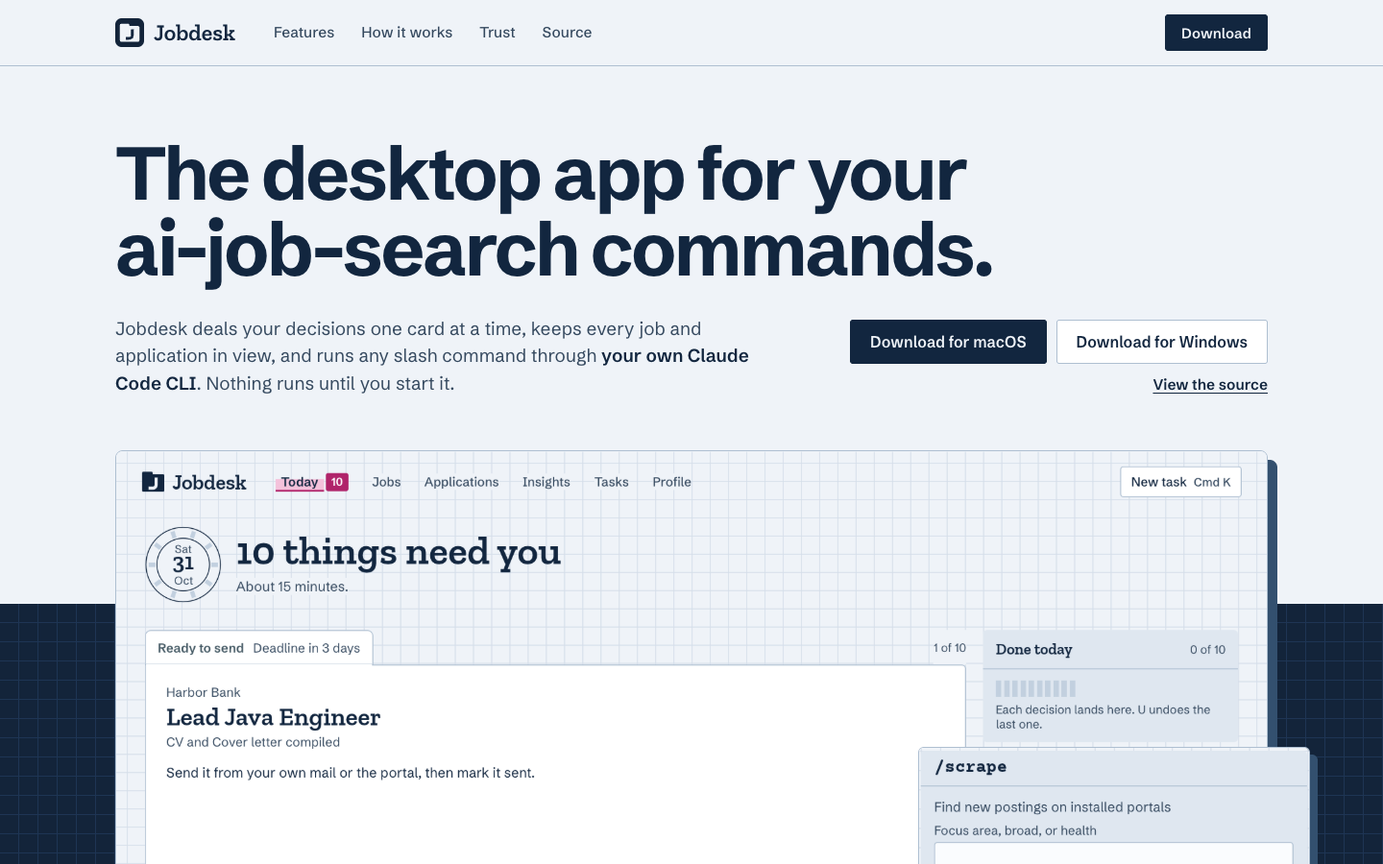
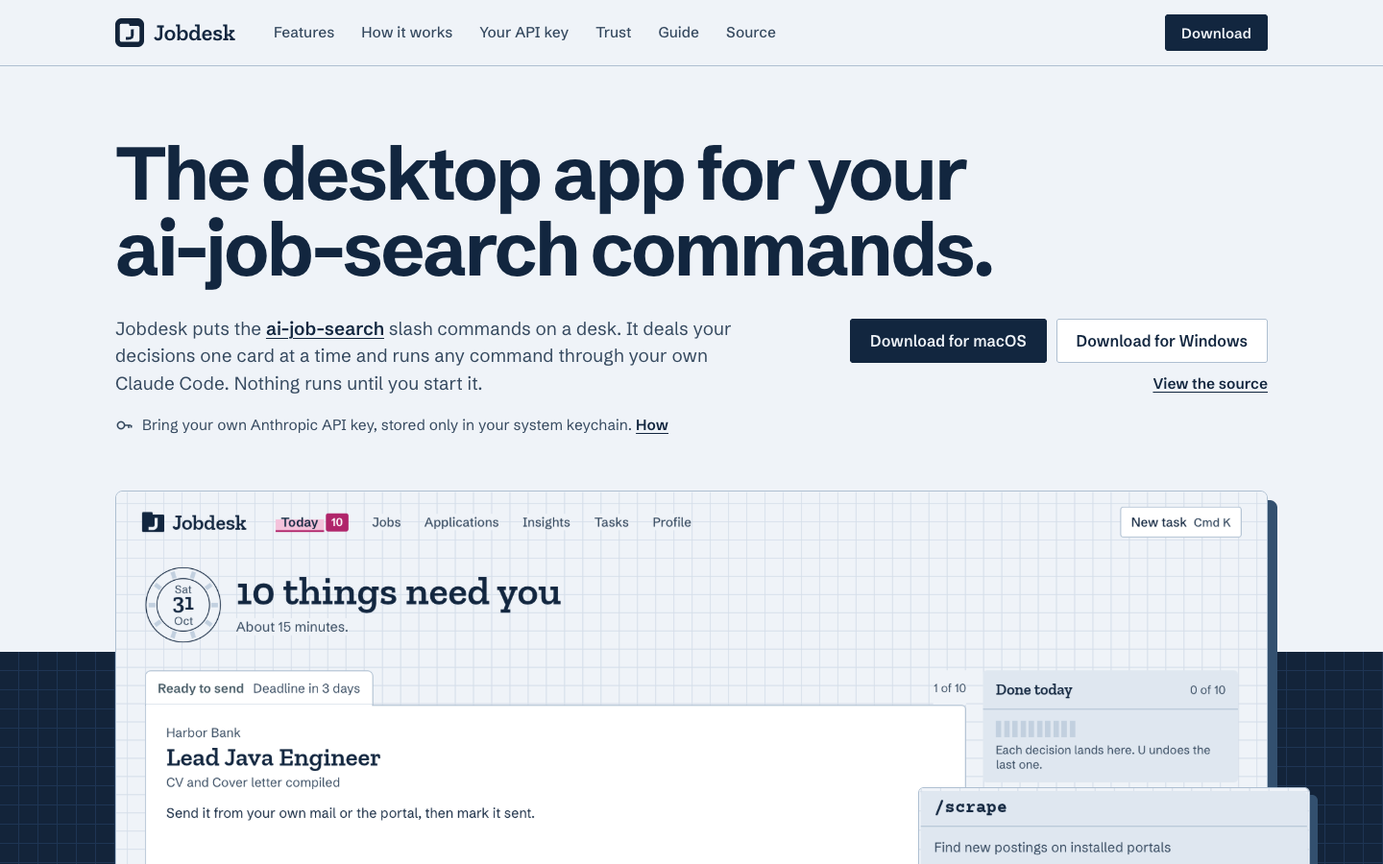
docs(mockups): rework landing option B copy and bring the API key forward
Credit ai-job-search with links and present Jobdesk as a desktop GUI over its commands, in place of 'Every screen reads your files.' Drop the failed-load copy. Add a Bring your own Anthropic API key section, a hero key line and a menu link, with each key fact checked against trust.md. Link the user guide and changelog from the menu, the download section and the footer. The handoff records B as the pick, the default Pages address and the phone frame's new top offset.

diff --git a/mockups/landing/B.html b/mockups/landing/B.html
@@ -92,7 +92,7 @@ code, .cmd { font-family: var(--typed); font-weight: 700; }
 
 /* Hero: the words over sheet, then the window across the edge of the deep field. */
 .hero { position: relative; padding-top: 72px; }
-.hero::after { content: ""; position: absolute; inset: 560px 0 0 0; z-index: 0;
+.hero::after { content: ""; position: absolute; inset: 610px 0 0 0; z-index: 0;
   background-color: var(--deep);
   background-image: linear-gradient(var(--deep-grid) 1px, transparent 1px), linear-gradient(90deg, var(--deep-grid) 1px, transparent 1px);
   background-size: 20px 20px; background-position: -1px -1px; }
@@ -100,10 +100,14 @@ code, .cmd { font-family: var(--typed); font-weight: 700; }
 .intro { display: grid; grid-template-columns: minmax(0, 7fr) minmax(0, 5fr); gap: 28px 56px; align-items: end; }
 .intro h1 { grid-column: 1 / -1; }
 .intro .lede { max-width: 36em; }
-.intro .ctas { margin-top: 0; justify-content: flex-end; }
+.intro .ctas { margin-top: 0; justify-content: flex-end; align-self: start; padding-top: 4px; }
 .hero h1 { font: 700 clamp(38px, 5.4vw, 78px)/1.02 var(--sans); letter-spacing: -0.035em; }
 .hero .lede { font-size: 19px; line-height: 1.5; color: var(--muted); }
 .hero .lede b { color: var(--text); font-weight: 600; }
+.credit { color: var(--text); font-weight: 600; text-decoration-thickness: 1px; text-underline-offset: 3px; }
+.keyline { margin-top: 18px; display: flex; align-items: center; gap: 10px; font-size: 15.5px; color: var(--muted); }
+.keyline svg { flex: none; width: 18px; height: 18px; }
+.keyline a { color: var(--text); font-weight: 600; text-underline-offset: 3px; }
 .ctas { display: flex; flex-wrap: wrap; gap: 10px; margin-top: 26px; align-items: center; }
 .ctas .link { margin-left: 8px; font-size: 15.5px; }
 .stage { position: relative; margin-top: 56px; padding-bottom: 96px; }
@@ -171,6 +175,17 @@ code, .cmd { font-family: var(--typed); font-weight: 700; }
 .pull p { font: 700 clamp(22px, 2.2vw, 28px)/1.25 var(--sans); letter-spacing: -0.015em; flex: 1 1 420px; }
 .pull span { color: var(--muted); flex: 1 1 320px; }
 
+/* Your own key: what happens to the key, beside the Providers screen. */
+.byok { display: grid; grid-template-columns: minmax(0, 5fr) minmax(0, 7fr); gap: 56px; align-items: start; margin-top: 56px; }
+.byok ol { list-style: none; }
+.byok li { padding: 18px 0; border-top: 1px solid var(--line); }
+.byok li:first-child { border-top: 0; padding-top: 0; }
+.byok li b { display: block; font-weight: 650; font-size: 17.5px; }
+.byok li span { display: block; margin-top: 3px; color: var(--muted); }
+.byok li code { font-size: 15px; color: var(--text); }
+.byok .shot { border-radius: 6px; border: 1px solid var(--line); box-shadow: 10px 10px 0 var(--raised); overflow: hidden; }
+.byok figcaption { margin-top: 18px; color: var(--muted); font-size: 14.5px; }
+
 /* Download. */
 .get { padding: 128px 0 112px; }
 .plats { display: grid; grid-template-columns: repeat(2, minmax(0, 1fr)); gap: 16px; margin-top: 48px; }
@@ -181,6 +196,7 @@ code, .cmd { font-family: var(--typed); font-weight: 700; }
 .plat .btn { justify-self: start; margin-top: 6px; }
 .need { margin-top: 28px; color: var(--muted); }
 .need b { color: var(--text); font-weight: 600; }
+.more { display: flex; flex-wrap: wrap; gap: 8px 28px; margin-top: 14px; list-style: none; }
 
 .foot { border-top: 1px solid var(--line); padding: 28px 0 40px; font-size: 14.5px; color: var(--muted); }
 .foot .wrap { display: flex; flex-wrap: wrap; align-items: center; gap: 10px 28px; }
@@ -202,6 +218,7 @@ code, .cmd { font-family: var(--typed); font-weight: 700; }
   .steps.drawn::before { transform: scaleY(1); }
   .step { padding-left: 0; }
   .spec { grid-template-columns: minmax(0, 1fr); }
+  .byok { grid-template-columns: minmax(0, 1fr); gap: 32px; }
   .plats { grid-template-columns: minmax(0, 1fr); }
 }
 @media (max-width: 640px) {
@@ -238,7 +255,9 @@ code, .cmd { font-family: var(--typed); font-weight: 700; }
     <nav aria-label="Main">
       <a href="#features">Features</a>
       <a href="#how">How it works</a>
+      <a href="#key">Your API key</a>
       <a href="#trust">Trust</a>
+      <a href="https://github.com/Nicolas-Widart-SRL/jobdesk/blob/main/docs/guide.md">Guide</a>
       <a href="https://github.com/Nicolas-Widart-SRL/jobdesk">Source</a>
     </nav>
     <a class="btn pri" href="#download">Download</a>
@@ -249,12 +268,16 @@ code, .cmd { font-family: var(--typed); font-weight: 700; }
   <section class="hero" id="top" aria-labelledby="hero-title">
     <div class="wrap intro">
       <h1 id="hero-title">The desktop app for your<br> ai‑job‑search commands.</h1>
-        <p class="lede">Jobdesk deals your decisions one card at a time, keeps every job and application in view, and runs any slash command through <b>your own Claude Code CLI</b>. Nothing runs until you start it.</p>
+        <div>
+        <p class="lede">Jobdesk puts the <a class="credit" href="https://github.com/ai-job-search-dev/ai-job-search">ai‑job‑search</a> slash commands on a desk. It deals your decisions one card at a time and runs any command through your own Claude Code. Nothing runs until you start it.</p>
+        <p class="keyline"><svg viewBox="0 0 18 18" aria-hidden="true"><circle cx="6" cy="9" r="3.6" fill="none" stroke="currentColor" stroke-width="1.6"/><path d="M9.6 9h7M14 9v3M16.6 9v2.4" fill="none" stroke="currentColor" stroke-width="1.6"/></svg><span>Bring your own Anthropic API key, stored only in your system keychain. <a href="#key">How</a></span></p>
+        </div>
         <div class="ctas">
           <a class="btn pri" href="https://github.com/Nicolas-Widart-SRL/jobdesk/releases/latest">Download for macOS</a>
           <a class="btn" href="https://github.com/Nicolas-Widart-SRL/jobdesk/releases/latest">Download for Windows</a>
           <a class="link" href="https://github.com/Nicolas-Widart-SRL/jobdesk">View the source</a>
         </div>
+        
     </div>
     <figure class="wrap stage deepzone">
       <div class="window">
@@ -275,8 +298,8 @@ code, .cmd { font-family: var(--typed); font-weight: 700; }
 
   <section class="wrap sec" id="features" aria-labelledby="features-title">
     <div class="sec-head">
-      <h2 id="features-title">Every screen reads your files.</h2>
-      <p>Today, Jobs, Applications, Insights and Profile update live as commands change your checkout. When a file fails to load, Jobdesk names it and says what still works.</p>
+      <h2 id="features-title">A desk for ai‑job‑search.</h2>
+      <p><a class="credit" href="https://github.com/ai-job-search-dev/ai-job-search">ai‑job‑search</a> is a set of Claude Code slash commands that find postings, score them and draft your applications. Jobdesk is a desktop GUI over them: each screen shows what the commands keep in your checkout, and follows along live as they run.</p>
     </div>
     <div class="cells">
       <article class="cell c7">
@@ -324,8 +347,8 @@ code, .cmd { font-family: var(--typed); font-weight: 700; }
   <section class="how deepzone" id="how" aria-labelledby="how-title">
     <div class="wrap">
       <div class="sec-head">
-        <h2 id="how-title">Your tools, your files. Jobdesk is the desk.</h2>
-        <p>Jobdesk sits on top of what you already have: an ai‑job‑search checkout and the Claude Code CLI, installed and signed in.</p>
+        <h2 id="how-title">Your commands, your Claude Code, your key.</h2>
+        <p>Jobdesk sits on top of what you already have: an ai‑job‑search checkout, the Claude Code CLI, and your own Anthropic API key or Claude Code’s sign-in.</p>
       </div>
       <ol class="steps wait" id="steps">
         <li class="step">
@@ -338,7 +361,7 @@ code, .cmd { font-family: var(--typed); font-weight: 700; }
         <li class="step">
           <span class="n" aria-hidden="true">2</span>
           <h3>Your Claude Code runs it</h3>
-          <p>Through your local claude CLI, in your job search folder, with its own sign-in. One run works at a time.</p>
+          <p>Through your local claude CLI, in your job search folder, on your own API key or Claude Code’s sign-in. One run works at a time.</p>
           <div class="slab"><span class="lab">Claude will run</span><code>/apply https://kestrel.example/jobs/2</code></div>
         </li>
         <li class="step">
@@ -351,6 +374,31 @@ code, .cmd { font-family: var(--typed); font-weight: 700; }
     </div>
   </section>
 
+  <section class="wrap sec" id="key" aria-labelledby="key-title">
+    <div class="sec-head">
+      <h2 id="key-title">Bring your own Anthropic API key.</h2>
+      <p>Paste a key from your Anthropic Console in Settings › Providers. Tasks then run on that key and bill its Console account. Jobdesk keeps it on your computer and hands it only to Claude Code.</p>
+    </div>
+    <div class="byok">
+      <ol>
+        <li><b>Stored only in your keychain</b><span>In the macOS Keychain, or the Credential Manager on Windows. Never in a file. Jobdesk reads it from there and holds it in memory until you quit or remove it.</span></li>
+        <li><b>Passed only to Claude Code</b><span>Each task gets the key in its <code>claude</code> process’s environment. Never on a command line or in a log, and never on screen in full.</span></li>
+        <li><b>Shown only in part</b><span>A saved key reads <code>sk-ant-</code>, dots and its last four characters. Only the key you are typing shows in full, while you press Show.</span></li>
+        <li><b>Tested before it is used</b><span>Test connection asks one fixed question, with no tools, in an empty temporary folder, capped at $0.01. Tasks switch to the key only once the test passes.</span></li>
+        <li><b>Yours to remove</b><span>Remove deletes it from the keychain and puts tasks back on Claude Code’s sign-in.</span></li>
+      </ol>
+      <figure>
+        <div class="shot">
+          <div class="crop" style="--x: 986; --y: 288; --w: 848; --h: 436">
+            <img class="th-l" src="../../tests/snapshots/settings_key_saved_light.png" alt="Settings › Providers with an API key in use: the key shows only as sk-ant-, dots and its last four characters, kept in the macOS Keychain, with its last test passed." loading="lazy">
+            <img class="th-d" src="../../tests/snapshots/settings_key_saved_dark.png" alt="Settings › Providers in the dark theme, with an API key in use and shown only in part." loading="lazy">
+          </div>
+        </div>
+        <figcaption>Settings › Providers, with a fictional key in use.</figcaption>
+      </figure>
+    </div>
+  </section>
+
   <section class="wrap sec" id="trust" aria-labelledby="trust-title">
     <div class="sec-head">
       <h2 id="trust-title">You stay in charge of every run.</h2>
@@ -359,7 +407,7 @@ code, .cmd { font-family: var(--typed); font-weight: 700; }
     <dl class="spec">
       <div><dt>Starting a run</dt><dd>Nothing runs until you start it. Card actions only open the launcher.</dd></div>
       <div><dt>One at a time</dt><dd>Only one run works at a time, because two commands could overwrite each other's files.</dd></div>
-      <div><dt>Sign-in</dt><dd>Tasks use Claude Code's own sign-in. Jobdesk keeps no password. An optional Anthropic Console API key stays in the system keychain.</dd></div>
+      <div><dt>Sign-in</dt><dd>Tasks use your API key or Claude Code’s own sign-in. Jobdesk keeps no password and offers no login of its own.</dd></div>
       <div><dt>Tool permissions</dt><dd>Allowed by default and listed in the activity, so you see each one. Settings › Permissions turns prompts on.</dd></div>
       <div><dt>What it writes</dt><dd>Slash commands write your checkout. Jobdesk itself writes only the Profile block you save.</dd></div>
       <div><dt>Your data</dt><dd>Run logs and your decisions stay in the app's data folder, readable only by your user.</dd></div>
@@ -388,7 +436,12 @@ code, .cmd { font-family: var(--typed); font-weight: 700; }
         <a class="btn pri" href="https://github.com/Nicolas-Widart-SRL/jobdesk/releases/latest">Download for Windows</a>
       </div>
     </div>
-    <p class="need">You need the <b>Claude Code</b> CLI, installed and signed in, and an <b>ai‑job‑search</b> checkout. <a class="link" href="https://github.com/Nicolas-Widart-SRL/jobdesk/releases">All releases</a></p>
+    <p class="need">You need the <b>Claude Code</b> CLI, an <b>Anthropic API key</b> or Claude Code’s sign-in, and an <a class="credit" href="https://github.com/ai-job-search-dev/ai-job-search">ai‑job‑search</a> checkout.</p>
+    <ul class="more">
+      <li><a class="link" href="https://github.com/Nicolas-Widart-SRL/jobdesk/releases">All releases</a></li>
+      <li><a class="link" href="https://github.com/Nicolas-Widart-SRL/jobdesk/blob/main/docs/guide.md">User guide</a></li>
+      <li><a class="link" href="https://github.com/Nicolas-Widart-SRL/jobdesk/blob/main/CHANGELOG.md">Changelog</a></li>
+    </ul>
   </section>
 </main>
 
@@ -397,8 +450,10 @@ code, .cmd { font-family: var(--typed); font-weight: 700; }
     <span class="brand"><img src="../../assets/brand/jobdesk-icon-small.svg" alt=""> Jobdesk</span>
     <a href="https://github.com/Nicolas-Widart-SRL/jobdesk">Source on GitHub</a>
     <a href="https://github.com/Nicolas-Widart-SRL/jobdesk/releases">All releases</a>
+    <a href="https://github.com/Nicolas-Widart-SRL/jobdesk/blob/main/docs/guide.md">User guide</a>
+    <a href="https://github.com/Nicolas-Widart-SRL/jobdesk/blob/main/CHANGELOG.md">Changelog</a>
     <span>MIT License</span>
-    <span>Built in Rust. Not made or endorsed by Anthropic.</span>
+    <span>A desktop app for <a class="credit" href="https://github.com/ai-job-search-dev/ai-job-search">ai‑job‑search</a>, built in Rust. Not made or endorsed by Anthropic.</span>
   </div>
 </footer>
 </div>

diff --git a/mockups/landing/phone.html b/mockups/landing/phone.html
@@ -5,7 +5,9 @@
 <title>Phone frame</title>
 <style>
   /* Headless Chrome will not make a window narrower than 500px, so a 390px render shows the page in a 390px frame.
-     Render at --size 500,H, then crop the PNG to its middle 390 (sips -c H 390 crops around the centre). Not part of the site. */
+     Headless Chrome also leaves the bottom of the window unpainted, so render a taller window with the frame centred:
+     --size 500,H+160 with h=H and top=80, then crop the PNG to its middle H x 390 (sips -c H 390 crops around the centre).
+     Not part of the site. */
   html, body { margin: 0; background: #ffffff; }
   iframe { display: block; border: 0; width: 390px; margin: 0 auto; }
 </style>
@@ -20,6 +22,7 @@
   var frame = document.createElement("iframe");
   frame.title = "Option " + page + " at 390 wide";
   frame.style.height = h + "px";
+  frame.style.marginTop = Math.max(0, Math.min(400, parseInt(q.get("top") || "0", 10) || 0)) + "px";
   frame.src = "./" + page + ".html?" + pass.toString();
   document.body.appendChild(frame);
 </script>

diff --git a/mockups/handoff/landing.md b/mockups/handoff/landing.md
@@ -1,12 +1,13 @@
 # Landing page
 
-A Jobdesk landing page for GitHub Pages, as clean and engaging as a Stripe or Apple product page. Two options, A and B, drawn as full pages in `mockups/landing/`. Neither is approved yet.
+A Jobdesk landing page for GitHub Pages, as clean and engaging as a Stripe or Apple product page. The user picked option B, "The Product", and this round reworked its copy. B is not approved yet. Option A stays drawn, unchanged, until it is.
 
 - [Canvases](#canvases)
-- [Option A, "The Desk"](#option-a-the-desk)
 - [Option B, "The Product"](#option-b-the-product)
-- [Rules for both](#rules-for-both)
+- [Your own API key](#your-own-api-key)
 - [Copy](#copy)
+- [Rules](#rules)
+- [Option A, "The Desk"](#option-a-the-desk)
 - [What a build needs](#what-a-build-needs)
 - [Open](#open)
 
@@ -14,76 +15,82 @@ A Jobdesk landing page for GitHub Pages, as clean and engaging as a Stripe or Ap
 
 Each canvas is a plain static page: no `support.js`, no build step, and every path relative, so it opens from the file system as it would from Pages. Both read `?theme=light|dark` (the system theme otherwise) and `?motion=off`, which shows every moving part at rest. Render with `--file-access`, so the bundled fonts and the snapshots load, and always pass `theme=` and `motion=off`, because headless Chrome follows the Mac's own theme and stops the clock before the hero settles.
 
-- Desktop: `scripts/render-canvas.sh --size 1440,900 --file-access mockups/landing/A.html mockups/landing/A-hero.png theme=light motion=off`. The full page uses the page's own height: 5587 for A and 5543 for B.
-- Phone: headless Chrome makes no window under 500px wide, so `phone.html` shows a page in a 390px frame. Render it at `--size 500,844` with `page=A` (or `B`), `theme=light`, `motion=off` and `h=844`, then crop the middle with `sips -c 844 390 <png> --out <png>`. `phone.html` is a drawing aid, not part of the site.
+- Desktop: `scripts/render-canvas.sh --size 1440,900 --file-access mockups/landing/B.html mockups/landing/B-hero.png theme=light motion=off`. The full page uses the page's own height: 6614 for B and 5587 for A.
+- Phone: headless Chrome makes no window under 500px wide and leaves the bottom of the window unpainted, so `phone.html` shows a page in a centred 390px frame. Render it at `--size 500,1004` with `page=B` (or `A`), `theme=light`, `motion=off`, `h=844` and `top=80`, then crop the middle with `sips -c 844 390 <png> --out <png>`. `phone.html` is a drawing aid, not part of the site.
 
 PNGs per option: `-hero` (1440x900, light), `-hero-dark`, `-full` (1440 wide, the whole page, light) and `-phone` (390x844).
-
-## Option A, "The Desk"
-
-Apple-style storytelling in the app's own world. The gridded desk runs behind the whole page and holds still while it scrolls, as it does in the app. One family of objects carries every section: the card, the stamp and the paper.
-
-1. **Menu**: the icon and name, then How it works, Screens, Source and Download, each opaque on the grid.
-2. **Hero**: the headline centred in Zilla Slab at up to 96px, one line under it, two download buttons. Below, the Today deal at 1.26x: the Ready to send card, its stack edges, Coming up tucked behind with its Now chip, and the day stamp struck across the corner. On load the card is dealt in, then the stamp strikes. That is the page's one orchestrated moment.
-3. **Four keys. One card on top.**: the four keys as big keycaps with what each does, beside a working deck of three fictional cards. Click a keycap, or focus the deck and type Y, L, N or U. Y lifts the card and shows the launcher with the card's command line and an inert Run. L sets it aside, N skips it, U brings back the last one. Each decision fills a tick on the day stamp and lands in Done today. Without JS the keys read as a list beside one static card.
-4. **Your files, laid out on one desk.**: Jobs, Applications and Tasks as full snapshots on paper with the app's solid offset shadow, alternating sides, each with a heading and two sentences.
-5. **Nothing runs until you start it.**: a band of `card` paper. Four facts on the left (the launcher, one run at a time, sign-in, permissions) and the launcher's side panel on the right, cropped from its snapshot, with Run in view.
-6. **Download**: "Put your job search on a desk.", the two requirements, and a paper panel each for macOS and Windows with the installer's name, how to open it, and its signing.
-7. **Footer**: source, releases, licence, "Built in Rust. Not made or endorsed by Anthropic."
-
-Trade-offs: the most distinctive and the closest to the app and the README hero, and the deck demo makes the core idea tangible in seconds. It shows fewer screens, and its warmth costs some of the "serious product" read.
 
 ## Option B, "The Product"
 
 Stripe-style precision. Plain `sheet` above, no grid, and Schibsted Grotesk at weight 700 for every heading. The app's own dark desk is the deep field the product sits on.
 
-1. **Menu**: sticky, on `sheet` with a `line` hairline under it: the icon and name, Features, How it works, Trust, Source, Download.
-2. **Hero**: the headline across the full width, "The desktop app for your ai‑job‑search commands.", then the line and the buttons side by side. Below, the Today snapshot as a flat window, crossing from `sheet` onto the deep field, with the launcher's side panel layered over its right edge. On load the window rises and the launcher slides in after it.
-3. **Every screen reads your files.**: a 12-column grid of cells in four sizes, each a snapshot cropped where it says most, bleeding off the cell's lower right: the Jobs shortlist, a job's checks, the Tasks band and question, Applications' lanes, two text cells (dossiers, Profile) and Usage statistics.
-4. **How it works**: on the deep field, three numbered steps, because they are a sequence: you pick a command (the command chips), your Claude Code runs it (the line Claude will run), your files change and the screens follow (the files `/apply` writes). A line joins the steps and draws once as they come into view.
-5. **You stay in charge of every run.**: a two-column spec sheet of eight facts (starting a run, one at a time, sign-in, permissions, what it writes, your data, updates, signing), then one pulled line: "The app never sends an application for you."
-6. **Download**: two panels, macOS and Windows, then the requirements and All releases.
-7. **Footer**: as A.
+1. **Menu**: sticky, on `sheet` with a `line` hairline under it: the icon and name, Features, How it works, Your API key, Trust, Guide, Source, then Download.
+2. **Hero**: the headline across the full width. Under it, the line with the ai‑job‑search link, and the key line: a key glyph, "Bring your own Anthropic API key, stored only in your system keychain." and a How link to the key section. The download buttons and View the source sit to the right. Below, the Today snapshot as a flat window, crossing from `sheet` onto the deep field, with the launcher's side panel layered over its right edge. On load the window rises and the launcher slides in after it.
+3. **A desk for ai‑job‑search.**: who does the work and what Jobdesk is, then a 12-column grid of cells in four sizes, each a snapshot cropped where it says most, bleeding off the cell's lower right: the Jobs shortlist, a job's checks, the Tasks band and question, Applications' lanes, two text cells (dossiers, Profile) and Usage statistics.
+4. **Your commands, your Claude Code, your key.**: on the deep field, three numbered steps, because they are a sequence: you pick a command (the command chips), your Claude Code runs it on your key or its own sign-in (the line Claude will run), your files change and the screens follow (the files `/apply` writes). A line joins the steps and draws once as they come into view.
+5. **Bring your own Anthropic API key.**: see [Your own API key](#your-own-api-key).
+6. **You stay in charge of every run.**: a two-column spec sheet of eight facts (starting a run, one at a time, sign-in, permissions, what it writes, your data, updates, signing), then one pulled line: "The app never sends an application for you."
+7. **Download**: "Download Jobdesk.", two panels, macOS and Windows, the requirements, then a row of links: All releases, User guide, Changelog.
+8. **Footer**: Source on GitHub, All releases, User guide, Changelog, MIT License, then "A desktop app for ai‑job‑search, built in Rust. Not made or endorsed by Anthropic."
 
-Trade-offs: reads as a mature product at a glance and shows the most of the app. It leans on screenshots, so it is more generic in structure than A, and the crops need re-cutting whenever the screens change.
+The page shows no failure case: no failed load, error or "what still works" copy, in the text, the captions or the alt text. The check tags OK, Unclear and Fails stay, because they are a job's result, not the app failing.
 
-## Rules for both
+## Your own API key
 
-- **Colours are palette tokens**, named as in `palette.rs`: `sheet`, `panel`, `raised`, `line`, `field`, `text`, `muted`, `primary`, `on_primary`, `drafted`, `active`, `turn`, `on_turn`, `grid`, `card`, `off`. Light uses the LIGHT set and dark the DARK set, swapped by `prefers-color-scheme` and `?theme=`. B's deep field is the DARK `sheet` and `grid` under the light theme, and the DARK `field` under the dark theme, with the DARK `text`, `muted` and `line` on it. No colour is outside the palette.
-- **Contrast** follows the pairs `palette.rs` tests: every text ink sits on `sheet`, `card` or `panel` of its own theme, or on the DARK desk in its DARK ink, all at 4.5:1 or more. Buttons are `on_primary` on `primary`. Focus is a 2px `active` ring (`FOCUS_RING`), the DARK `active` on the deep field.
-- **One magenta**. `turn` appears only where the app itself puts it: A's Now chip in Coming up, and inside the snapshots (tab counts, Your turn, the pink edges). No headline word is highlighted.
-- **Type**: Zilla Slab for A's headings and both brand names, Schibsted Grotesk for everything else, and Courier Prime only for commands, file names and installer names, as in the app (`look.md`). All three load from `assets/fonts` with `font-display: swap`. No CDN, tracker or analytics.
-- **No stock hero**: no tilted window, no grey blur. A deals the app's own objects with its solid offset shadow. B shows the window flat, with a solid offset shadow in the DARK `line`.
-- **Real screens only**: every screen image is a committed snapshot from `tests/snapshots/`, fictional data from `tests/sample_workspace`. A crop sets the snapshot's pixel box as CSS variables, so a re-cut is one line. The 12px margin round each snapshot is cropped off.
-- **Motion** answers the page's job: the deal and strike in A, the window and launcher in B, the step line in B, and A's deck responding to keys. `prefers-reduced-motion` stops all of it, and the page then shows each part at rest.
-- **Accessibility**: one `h1`, `h2` per section, `h3` inside, in order. A skip link. Every snapshot has alt text that says what it shows. The hero desk in A is one image with a description. The deck's keys are real buttons, its keyboard handler listens only while the deck has focus, and an `aria-live` line says what each key did.
-- **Phone**: at 390 wide every grid becomes one column, buttons go full width, A drops the slip, and B's launcher overlaps the window's lower right instead of its edge. No horizontal scroll at 390 or 1440 (measured: the page's scroll width equals the window's).
-- **Hard rules, stated as they are**: card actions never start a run, Y opens the launcher and the user presses Run there, one run at a time, sign-in stays with the user's Claude Code, and tool permissions are allowed by default and listed, with prompts in Settings › Permissions. A's deck starts, sends and stores nothing.
+The user asked for the bring-your-own-key option to be prominent, because Anthropic's terms expect it. The page makes no legal claim. It shows the key in four places: the hero's key line, a menu link, the how-it-works step and its lede, and a section of its own after How it works. Trust's Sign-in row and the download requirements name the key first, with Claude Code's sign-in as the other way.
+
+The section: a lede ("Paste a key from your Anthropic Console in Settings › Providers. Tasks then run on that key and bill its Console account. Jobdesk keeps it on your computer and hands it only to Claude Code."), five facts on the left, and the API key panel of Settings › Providers on the right, cropped from `settings_key_saved_*`, with a fictional key shown in part.
+
+Every fact matches `AGENTS.md`'s hard rule and `docs/architecture/trust.md` (The API key):
+
+- **Stored only in your keychain**: the macOS Keychain or the Windows Credential Manager, never a file. Read from there, held in memory until quit or Remove.
+- **Passed only to Claude Code**: in the `claude` process's environment. Never on a command line or in a log, and never on screen in full.
+- **Shown only in part**: `sk-ant-`, dots and the last four characters. Only the key being typed shows in full, while the user presses Show.
+- **Tested before it is used**: one fixed question, no tools, an empty temporary folder, capped at $0.01. Tasks switch to the key only once the test passes.
+- **Yours to remove**: Remove deletes it from the keychain and puts tasks back on Claude Code's sign-in.
+
+The page does not say the key is unreadable by other programs: `trust.md` accepts that a process of the same user can read it from `claude`'s environment.
 
 ## Copy
 
-All facts come from `README.md` and `docs/guide.md`. No testimonials, counts, prices, ratings or logos.
+All facts come from `README.md` and `docs/guide.md`, and the key's from `trust.md`. No testimonials, counts, prices, ratings or logos.
 
-- A headline: "Your job search, one decision at a time.", the README hero's. Line: "A macOS and Windows app for the ai‑job‑search commands. It runs them through your own Claude Code, and nothing runs until you start it."
-- B headline: "The desktop app for your ai‑job‑search commands." Line: "Jobdesk deals your decisions one card at a time, keeps every job and application in view, and runs any slash command through your own Claude Code CLI. Nothing runs until you start it."
+- **Headline**: "The desktop app for your ai‑job‑search commands."
+- **Hero line**: "Jobdesk puts the ai‑job‑search slash commands on a desk. It deals your decisions one card at a time and runs any command through your own Claude Code. Nothing runs until you start it."
+- **Features head**: "A desk for ai‑job‑search." Lede: "ai‑job‑search is a set of Claude Code slash commands that find postings, score them and draft your applications. Jobdesk is a desktop GUI over them: each screen shows what the commands keep in your checkout, and follows along live as they run." It replaces "Every screen reads your files.", which the user found intrusive, and credits the project before Jobdesk.
+- **Credit**: ai‑job‑search links to `https://github.com/ai-job-search-dev/ai-job-search` in the hero line, the features lede, the download requirements and the footer.
+- **Links**: downloads go to `https://github.com/Nicolas-Widart-SRL/jobdesk/releases/latest`, source to `https://github.com/Nicolas-Widart-SRL/jobdesk`, the guide to `.../blob/main/docs/guide.md` and the changelog to `.../blob/main/CHANGELOG.md`.
+- **Installers** keep `vX.Y.Z`, as the README does. macOS says Apple silicon, signed with a Developer ID and notarized by Apple. Windows says the installer is not signed yet, and to click More info, then Run anyway.
 - "ai‑job‑search" uses non-breaking hyphens in running text, so it never breaks across lines.
-- Download buttons say "Download for macOS" and "Download for Windows" and go to `https://github.com/Nicolas-Widart-SRL/jobdesk/releases/latest`. Source links go to `https://github.com/Nicolas-Widart-SRL/jobdesk`.
-- Installer names keep `vX.Y.Z`, as the README does. macOS says Apple silicon, signed with a Developer ID and notarized by Apple. Windows says the installer is not signed yet, and to click More info, then Run anyway.
-- "Uses your Claude Code" wording only. The footer says "Not made or endorsed by Anthropic.", as the README does.
+- "Your own Claude Code" wording only, no Anthropic or Claude logo. The footer says "Not made or endorsed by Anthropic.", as the README does.
+
+## Rules
+
+- **Colours are palette tokens**, named as in `palette.rs`: `sheet`, `panel`, `raised`, `line`, `field`, `text`, `muted`, `primary`, `on_primary`, `active`, `turn`, `on_turn`, `grid`, `card`. Light uses the LIGHT set and dark the DARK set, swapped by `prefers-color-scheme` and `?theme=`. The deep field is the DARK `sheet` and `grid` under the light theme, and the DARK `field` under the dark theme, with the DARK `text`, `muted` and `line` on it.
+- **Contrast** follows the pairs `palette.rs` tests: every text ink sits on `sheet`, `card` or `panel` of its own theme, or on the DARK desk in its DARK ink, all at 4.5:1 or more. Buttons are `on_primary` on `primary`. Focus is a 2px `active` ring (`FOCUS_RING`), the DARK `active` on the deep field.
+- **One magenta**: `turn` appears only inside the snapshots, where the app itself puts it. No headline word is highlighted.
+- **Type**: Schibsted Grotesk for the page, Zilla Slab only for the brand name, and Courier Prime only for commands, file names, installer names, `claude` and `sk-ant-`, as in the app (`look.md`). All three load from `assets/fonts` with `font-display: swap`. No CDN, tracker or analytics.
+- **No stock hero**: the window lies flat, with a solid offset shadow in the DARK `line`, no tilt and no grey blur.
+- **Real screens only**: every screen image is a committed snapshot from `tests/snapshots/`, fictional data from `tests/sample_workspace`. A crop sets the snapshot's pixel box as CSS variables, so a re-cut is one line. The 12px margin round each snapshot is cropped off.
+- **Motion**: the window and launcher on load, and the step line once. `prefers-reduced-motion` stops both, and the page shows each part at rest.
+- **Accessibility**: one `h1`, `h2` per section, `h3` inside, in order. A skip link. Every snapshot has alt text that says what it shows.
+- **Phone**: at 390 wide every grid becomes one column, the menu keeps only the brand and Download, buttons go full width, and the launcher overlaps the window's lower right. No horizontal scroll at 390 or 1440 (measured: the page's scroll width equals the window's).
+- **Hard rules, stated as they are**: card actions never start a run, Y opens the launcher and the user presses Run there, one run at a time, Jobdesk offers no login of its own, and tool permissions are allowed by default and listed, with prompts in Settings › Permissions.
+
+## Option A, "The Desk"
+
+Not picked. Kept unchanged in `A.html` and its PNGs until B is approved, then removed. It tells the story on the app's gridded desk: the dealt Today card and the struck day stamp in the hero, a working Y, L, N, U deck, three full screens, the "Nothing runs until you start it." band and download. None of this round's copy changes are in A.
 
 ## What a build needs
 
-- **Where**: a `site/` folder at the repo root, published by a Pages workflow that uploads it as is (`actions/upload-pages-artifact`, then `actions/deploy-pages`), on pushes to `main` that touch `site/`. No build step.
-- **What it copies** into `site/`: the chosen canvas as `index.html`, with its paths changed from `../../` to local ones; `assets/fonts/ZillaSlab-SemiBold.ttf`, `SchibstedGrotesk-Variable.ttf` and `CourierPrime-Bold.ttf` with their OFL texts; `assets/brand/jobdesk-icon-small.svg` for the icon and favicon; and the snapshots the page shows, as copies (A: `jobs`, `tracker`, `run_turn`, `launcher`, light and dark; B: `intray`, `launcher`, `jobs`, `run_turn`, `tracker`, `settings_usage`, light and dark). A check could compare the copies with `tests/snapshots/` so the site never shows a stale screen.
+- **Where**: a `site/` folder at the repo root, published by a Pages workflow that uploads it as is (`actions/upload-pages-artifact`, then `actions/deploy-pages`), on pushes to `main` that touch `site/`. No build step. The site lives at the default address, `https://nicolas-widart-srl.github.io/jobdesk/`, with no custom domain, so every path stays relative.
+- **What it copies** into `site/`: `B.html` as `index.html`, with its paths changed from `../../` to local ones; `assets/fonts/ZillaSlab-SemiBold.ttf`, `SchibstedGrotesk-Variable.ttf` and `CourierPrime-Bold.ttf` with their OFL texts; `assets/brand/jobdesk-icon-small.svg` for the icon and favicon; and, light and dark, the snapshots `intray`, `launcher`, `jobs`, `run_turn`, `tracker`, `settings_usage` and `settings_key_saved`. A check could compare the copies with `tests/snapshots/` so the site never shows a stale screen.
 - **Image weight**: the snapshots are 1920x1230 PNGs. A build may convert them to WebP or AVIF at the shown size, with `width` and `height` set, and keep the hero image eager and the rest lazy.
-- **Social card**: `assets/brand/jobdesk-social.png` as `og:image`, with `og:title` and `og:description` from the page's own title and line.
+- **Head**: `<link rel="canonical">` and `og:url` on the address above, `assets/brand/jobdesk-social.png` as `og:image`, and `og:title` and `og:description` from the page's own title and line.
 - **Not in the canvas**: the `?theme=` and `?motion=` switches are for renders. A build may keep `?theme=` and drop `?motion=`.
 
 ## Open
 
-- Pick A or B, or a mix. A natural mix is A's hero and deck with B's feature grid and spec sheet.
-- Domain: `nicolas-widart-srl.github.io/jobdesk`, or a custom domain.
-- Courier Prime: kept for commands and installer names as in the app. The brief named two fonts. Drop it for Schibsted Grotesk if you prefer.
-- A's deck shows three fictional cards. Keep it, or show a static card for a quieter page.
-- Whether the page links the user guide (`docs/guide.md` on GitHub) and the changelog.
+- Approve B as drawn, so the next round removes A and finalizes.
+- Courier Prime: kept for commands, file names and installer names as in the app. The brief named two fonts. Drop it for Schibsted Grotesk if you prefer.
 - The Windows note says the installer is not signed yet. Update the copy when that changes.

diff --git a/mockups/README.md b/mockups/README.md
@@ -18,7 +18,7 @@ This folder holds HTML canvases of the current look: Postmark on a gridded desk,
 | `Settings.html` | `?state=usage\|usage-empty\|loading\|providers\|key-entry\|key-saved\|key-failed\|terms\|terms-missing\|terms-failed\|general\|appearance\|queue\|jobs\|defaults\|cap\|perms\|runtime\|data\|about\|about-checking\|about-failed\|about-update\|about-ready-waits\|search\|nav&theme=light\|dark` | 29 `Settings-*.png` | [settings](handoff/settings.md), [update](handoff/update.md) |
 | `Update.html` | `?state=available\|notes\|notes-ready\|downloading\|ready\|ready-busy\|failed\|bad-signature&theme=light\|dark` | 10 `Update-*.png` | [update](handoff/update.md) |
 | `Social.html` | none | `Social.png`, at 1280x640 | [social-preview](handoff/social-preview.md) |
-| `landing/A.html`, `landing/B.html` | `?theme=light\|dark&motion=off`; phone through `landing/phone.html?page=A\|B&h=844` | 4 each: `landing/A-hero.png`, `-hero-dark`, `-full`, `-phone`, and the same for B | [landing](handoff/landing.md) |
+| `landing/A.html`, `landing/B.html` | `?theme=light\|dark&motion=off`; phone through `landing/phone.html?page=A\|B&h=844&top=80` | 4 each: `landing/A-hero.png`, `-hero-dark`, `-full`, `-phone`, and the same for B | [landing](handoff/landing.md) |
 
 ## Handoff files
 
@@ -30,6 +30,6 @@ This folder holds HTML canvases of the current look: Postmark on a gridded desk,
 - **Settings**: what Settings still lacks: notifications, Reduce motion following the OS, and the licences link → see [handoff/settings.md](handoff/settings.md). Open it when you add one of them.
 - **Updates**: the update group in the status bar, the release notes popover and how the notes render, Restart while a Claude session is open, and Settings › About's Updates section → see [handoff/update.md](handoff/update.md). Open it when you change how Jobdesk updates itself or the right side of the status bar.
 - **Social preview**: the GitHub preview and README hero, its copy and its decisions → see [handoff/social-preview.md](handoff/social-preview.md). Open it when you redraw the preview or change the README hero.
-- **Landing page**: the GitHub Pages landing page, options A (The Desk) and B (The Product), their sections, rules, copy, and what a `site/` build needs → see [handoff/landing.md](handoff/landing.md). Open it when you change or build the landing page.
+- **Landing page**: the GitHub Pages landing page: option B (The Product), the user's pick, with its sections, the API key section, copy, rules and what a `site/` build needs, and option A (The Desk) kept until approval → see [handoff/landing.md](handoff/landing.md). Open it when you change or build the landing page.
 
 A new round writes or updates one handoff file per screen or topic it changes, its canvas's row in the Canvases table, and its line under Handoff files (`.claude/agents/designer.md` step 6).
